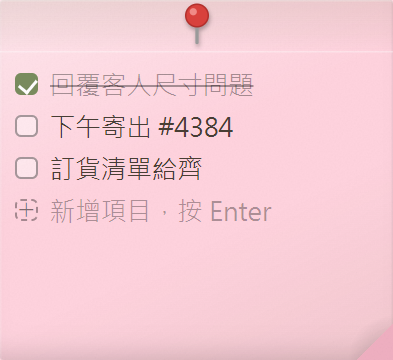
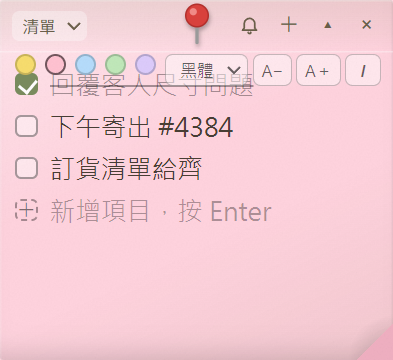
v0.4.1：鬧鈴改鈴鐺圖示（SVG非emoji）；照片可調大小（−＋每張獨立70~400px）、保留原比例、點圖放大檢視

diff --git a/note.html b/note.html
@@ -82,7 +82,7 @@
   body.unpinned #pinhole { opacity: 1; }
 
   .ctrl { opacity: 0; transition: opacity .15s; }
-  body:hover .ctrl { opacity: 1; }
+  body:hover .ctrl, body.demo-show .ctrl { opacity: 1; }
 
   #modeSel {
     position: absolute; left: 8px; top: 7px;
@@ -167,23 +167,38 @@
     border-radius: 4px; padding: 1px 7px; display: none; pointer-events: none;
   }
 
-  /* 圖片（拍立得式小相紙，可貼上/拖入） */
+  /* 圖片（拍立得式相紙，可貼上/拖入；滑過 −＋ 調大小、點圖放大看） */
   #imgs {
-    display: none; flex-wrap: wrap; gap: 10px;
-    padding: 10px 12px 2px; max-height: 150px; overflow-y: auto;
+    display: none; flex-wrap: wrap; gap: 10px; align-items: flex-start;
+    padding: 10px 12px 2px; max-height: 65%; overflow-y: auto;
   }
   #imgs .ph {
-    position: relative; background: #FFF; padding: 4px 4px 10px;
-    box-shadow: 0 2px 6px rgba(0,0,0,.28); transform: rotate(-2deg);
+    position: relative; background: #FFF; padding: 4px 4px 12px;
+    box-shadow: 0 2px 6px rgba(0,0,0,.28); transform: rotate(-1.6deg);
   }
-  #imgs .ph:nth-child(even) { transform: rotate(1.6deg); }
-  #imgs .ph img { display: block; width: 86px; height: 86px; object-fit: cover; }
-  #imgs .ph .rmi {
-    position: absolute; top: -7px; right: -7px; width: 18px; height: 18px;
+  #imgs .ph:nth-child(even) { transform: rotate(1.4deg); }
+  #imgs .ph img { display: block; width: 100%; height: auto; cursor: zoom-in; }
+  #imgs .ph button {
+    position: absolute; top: -7px; width: 18px; height: 18px;
     border-radius: 50%; border: none; background: rgba(0,0,0,.7); color: #FFF;
-    font-size: 11px; line-height: 1; cursor: pointer; opacity: 0;
+    font-size: 11px; line-height: 1; cursor: pointer; opacity: 0; padding: 0;
   }
-  #imgs .ph:hover .rmi { opacity: 1; }
+  #imgs .ph:hover button { opacity: 1; }
+  #imgs .ph .szm { left: -7px; }
+  #imgs .ph .szp { left: 15px; }
+  #imgs .ph .rmi { right: -7px; }
+
+  /* 點圖放大檢視 */
+  #lightbox {
+    position: fixed; inset: 0; z-index: 40;
+    background: rgba(30,26,18,.9); display: none;
+    align-items: center; justify-content: center; cursor: zoom-out;
+  }
+  #lightbox img {
+    max-width: 93%; max-height: 92%;
+    background: #FFF; padding: 6px 6px 16px;
+    box-shadow: 0 10px 40px rgba(0,0,0,.5);
+  }
 
   /* 手寫模式 */
   #draw { flex: 1; position: relative; display: none; }
@@ -249,7 +264,7 @@
       <circle cx="10.5" cy="6.5" r="2.4" fill="#F08A86"/>
     </svg>
     <div class="btns ctrl">
-      <button id="alarmBtn" title="鬧鈴提醒">鈴</button>
+      <button id="alarmBtn" title="鬧鈴提醒"><svg viewBox="0 0 24 24" width="14" height="14" fill="none" stroke="currentColor" stroke-width="2" stroke-linecap="round" stroke-linejoin="round" style="vertical-align:-2px"><path d="M18 16v-5a6 6 0 0 0-12 0v5l-2 2.5h16z"/><path d="M10.5 21a1.5 1.5 0 0 0 3 0"/></svg></button>
       <button id="add" title="新增一張">＋</button>
       <button id="fold" title="收合 / 展開">▴</button>
       <button id="del" title="刪除這張">×</button>
@@ -281,6 +296,7 @@
     <button id="eraserBtn">橡皮擦</button>
     <button id="clearBtn">清空</button>
   </div>
+  <div id="lightbox"><img></div>
   <div id="content">
     <div id="imgs"></div>
     <textarea id="text" placeholder="寫點什麼…" spellcheck="false"></textarea>
@@ -312,7 +328,8 @@
   let fontSize = note.fontSize || 17
   let italic = !!note.italic
   let font = note.font || 'default'
-  let images = note.images || []
+  // 舊版圖片是純網址字串，轉成帶寬度的物件
+  let images = (note.images || []).map(x => typeof x === 'string' ? { src: x, w: 115 } : x)
   let alarm = note.alarm || null
 
   let timer
@@ -351,10 +368,11 @@
   const alarmChip = document.getElementById('alarmChip')
   const two = n => String(n).padStart(2, '0')
   const toLocalInput = d => `${d.getFullYear()}-${two(d.getMonth() + 1)}-${two(d.getDate())}T${two(d.getHours())}:${two(d.getMinutes())}`
+  const BELL_SVG = '<svg viewBox="0 0 24 24" width="10" height="10" fill="none" stroke="currentColor" stroke-width="2.4" stroke-linecap="round" stroke-linejoin="round" style="vertical-align:-1px;margin-right:3px"><path d="M18 16v-5a6 6 0 0 0-12 0v5l-2 2.5h16z"/><path d="M10.5 21a1.5 1.5 0 0 0 3 0"/></svg>'
   function renderAlarmChip() {
     if (alarm) {
       const d = new Date(alarm)
-      alarmChip.textContent = `鬧鈴 ${d.getMonth() + 1}/${d.getDate()} ${two(d.getHours())}:${two(d.getMinutes())}`
+      alarmChip.innerHTML = `${BELL_SVG}${d.getMonth() + 1}/${d.getDate()} ${two(d.getHours())}:${two(d.getMinutes())}`
       alarmChip.style.display = 'block'
     } else alarmChip.style.display = 'none'
   }
@@ -382,14 +400,30 @@
 
   // ---------- 圖片（貼上 / 拖入） ----------
   const imgs = document.getElementById('imgs')
+  const lightbox = document.getElementById('lightbox')
+  const lightboxImg = lightbox.querySelector('img')
+  lightbox.onclick = () => { lightbox.style.display = 'none' }
+
   function renderImgs() {
     imgs.innerHTML = ''
-    images.forEach((src, i) => {
+    images.forEach((it, i) => {
       const ph = document.createElement('div'); ph.className = 'ph'
-      const im = document.createElement('img'); im.src = src
-      const rm = document.createElement('button'); rm.className = 'rmi'; rm.textContent = '×'
-      rm.onclick = () => { images.splice(i, 1); renderImgs(); save() }
-      ph.append(im, rm); imgs.appendChild(ph)
+      ph.style.width = (it.w || 115) + 'px'
+      const im = document.createElement('img'); im.src = it.src
+      im.title = '點一下放大'
+      im.onclick = () => { lightboxImg.src = it.src; lightbox.style.display = 'flex' }
+      const mk = (cls, label, fn, title) => {
+        const b = document.createElement('button')
+        b.className = cls; b.textContent = label; b.title = title
+        b.onclick = fn; return b
+      }
+      ph.append(
+        im,
+        mk('szm', '−', () => { it.w = Math.max(70, (it.w || 115) - 25); renderImgs(); save() }, '縮小'),
+        mk('szp', '＋', () => { it.w = Math.min(400, (it.w || 115) + 25); renderImgs(); save() }, '放大'),
+        mk('rmi', '×', () => { images.splice(i, 1); renderImgs(); save() }, '移除')
+      )
+      imgs.appendChild(ph)
     })
     imgs.style.display = (images.length && mode !== 'draw') ? 'flex' : 'none'
   }
@@ -402,7 +436,7 @@
       c.width = Math.round(img.width * scale)
       c.height = Math.round(img.height * scale)
       c.getContext('2d').drawImage(img, 0, 0, c.width, c.height)
-      images.push(c.toDataURL('image/jpeg', 0.82))
+      images.push({ src: c.toDataURL('image/jpeg', 0.82), w: 115 })
       URL.revokeObjectURL(img.src)
       renderImgs(); save()
     }
@@ -610,6 +644,9 @@
     if (empty || confirm('刪除這張便利貼？')) ipcRenderer.send('delete-note', id)
   }
 
+  // selftest 截圖用：示範時固定顯示工具列
+  if (id && id.startsWith('demo')) document.body.classList.add('demo-show')
+
   // selftest 截圖用：示範拍立得圖片
   if (id === 'demo1' && images.length === 0) {
     const c = document.createElement('canvas'); c.width = c.height = 160
@@ -617,13 +654,13 @@
     g.fillStyle = '#C7D2B8'; g.fillRect(0, 0, 160, 160)
     g.fillStyle = '#8A9B72'; g.beginPath(); g.arc(80, 95, 45, 0, Math.PI * 2); g.fill()
     g.fillStyle = '#F0E6C8'; g.beginPath(); g.arc(115, 45, 22, 0, Math.PI * 2); g.fill()
-    images.push(c.toDataURL())
+    images.push({ src: c.toDataURL(), w: 115 })
     const c2 = document.createElement('canvas'); c2.width = c2.height = 160
     const g2 = c2.getContext('2d')
     g2.fillStyle = '#D8C8B8'; g2.fillRect(0, 0, 160, 160)
     g2.fillStyle = '#A88868'; g2.fillRect(28, 60, 104, 70)
     g2.fillStyle = '#6B5640'; g2.fillRect(28, 40, 104, 20)
-    images.push(c2.toDataURL())
+    images.push({ src: c2.toDataURL(), w: 145 })
     renderImgs()
   }
 